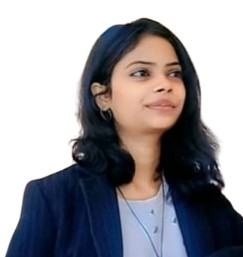
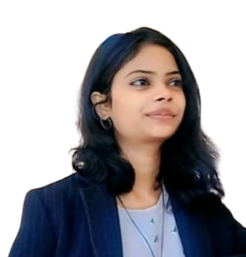
update

diff --git a/portfolio/src/sections/Home.jsx b/portfolio/src/sections/Home.jsx
@@ -7,8 +7,10 @@ import { FaGithub, FaLinkedin, FaEnvelope } from "react-icons/fa";
 
 export default function Home() {
   return (
-    <section id="home" className="relative min-h-screen w-full bg-[#0A192F] flex items-center justify-center overflow-hidden">
-
+    <section
+      id="home"
+      className="relative min-h-screen w-full bg-[#0A192F] flex items-center justify-center overflow-hidden"
+    >
       {/* GRADIENT OVERLAY */}
       <div className="absolute inset-0 bg-gradient-to-b from-transparent to-[#00101E] opacity-70 z-0" />
 
@@ -30,14 +32,19 @@ export default function Home() {
       {/* MAIN CONTENT */}
       <div className="pt-20 md:pt-28 flex flex-col items-center text-center md:text-left md:flex-row gap-10">
 
-        {/* Normal Clean Profile Image */}
-        <img
-          src={profileImg}
-          alt="Profile"
-          className="w-48 h-48 md:w-56 md:h-56 rounded-full object-cover"
-        />
+        {/* PROFILE IMAGE (Same style as screenshot) */}
+        <div className="relative w-64 md:w-80 mx-auto">
+          <img
+            src={profileImg}
+            alt="Profile"
+            className="w-full object-contain select-none"
+          />
 
-        {/* Text Section */}
+          {/* Bottom Fade to blend with background */}
+          <div className="absolute bottom-0 left-0 w-full h-28 bg-gradient-to-t from-[#0A192F] to-transparent" />
+        </div>
+
+        {/* TEXT SECTION */}
         <div className="max-w-lg animate-slideUp">
           <h1 className="text-4xl md:text-5xl font-poppins font-bold text-[#E6F1FF]">
             Hi, I'm <span className="text-[#00FF9D]">Khushi</span> 👋
@@ -48,38 +55,55 @@ export default function Home() {
             I build clean & modern web experiences.
           </p>
 
-          {/* Description */}
+          {/* DESCRIPTION */}
           <p className="mt-4 text-[#8892B0] font-inter text-lg leading-relaxed">
             A passionate
             <span className="text-[#00FF9D] font-semibold"> Web Developer</span>
             who loves turning ideas into interactive, user-friendly interfaces.
             Always curious, always learning — currently exploring
-            <span className="text-[#00FF9D] font-semibold"> React, Tailwind & AI-powered Web Apps.</span>
+            <span className="text-[#00FF9D] font-semibold">
+              {" "}
+              React, Tailwind & AI-powered Web Apps.
+            </span>
           </p>
 
-          {/* Buttons */}
+          {/* BUTTONS */}
           <div className="flex gap-4 mt-6 justify-center md:justify-start">
             <Button text="View Resume" link="/resume.pdf" />
             <Button text="Contact Me" id="contact" />
           </div>
 
-          {/* Social Icons */}
+          {/* SOCIAL ICONS */}
           <div className="flex gap-5 mt-6 justify-center md:justify-start text-2xl">
-            <a href="https://github.com/Khushi5155" className="hover:text-[#00FF9D] transition-all duration-300">
+            <a
+              href="https://github.com/Khushi5155"
+              className="hover:text-[#00FF9D] transition-all duration-300"
+            >
               <FaGithub />
             </a>
-            <a href="https://www.linkedin.com/in/khushi-kumari-bb4305327" className="hover:text-[#00FF9D] transition-all duration-300">
+
+            <a
+              href="https://www.linkedin.com/in/khushi-kumari-bb4305327"
+              className="hover:text-[#00FF9D] transition-all duration-300"
+            >
               <FaLinkedin />
             </a>
-            <a href="mailto:kkaayana5155@gmail.com" className="hover:text-[#00FF9D] transition-all duration-300">
+
+            <a
+              href="mailto:kkaayana5155@gmail.com"
+              className="hover:text-[#00FF9D] transition-all duration-300"
+            >
               <FaEnvelope />
             </a>
           </div>
         </div>
       </div>
 
-      {/* Scroll Down Arrow */}
-      <a href="#about" className="absolute bottom-8 animate-bounce text-[#00FF9D] text-3xl">
+      {/* SCROLL DOWN ARROW */}
+      <a
+        href="#about"
+        className="absolute bottom-8 animate-bounce text-[#00FF9D] text-3xl"
+      >
         ↓
       </a>
     </section>
